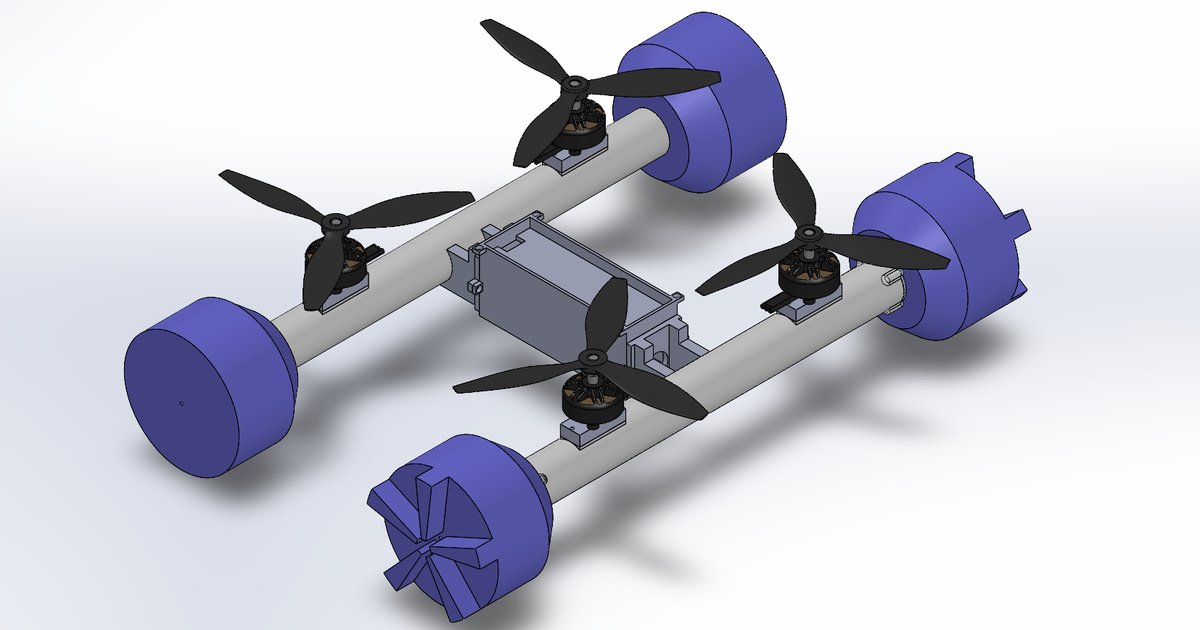
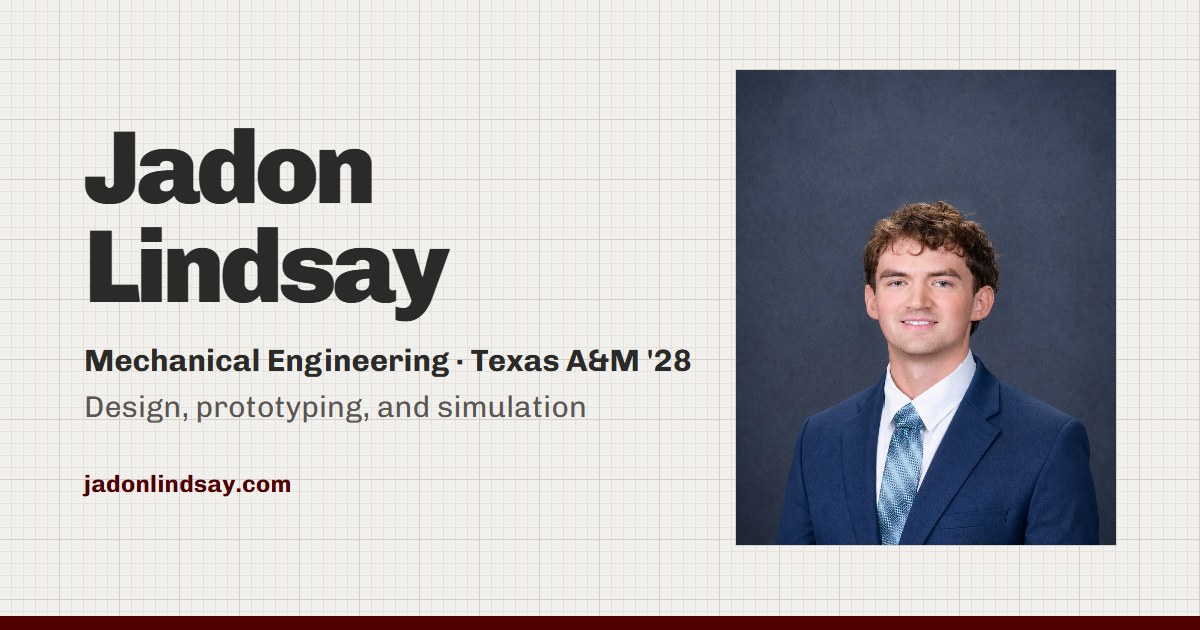
Link previews in the site's style, one per page
A home card with name, role and headshot, and a card per project page
with its title, key result and line drawing. Title now names Texas A&M.

diff --git a/UPDATING.md b/UPDATING.md
@@ -65,6 +65,7 @@ Open the chart's file in `src/data/` and change the `y` value next to its `x` va
 - **Resume:** replace `public/resume.pdf`, keeping that exact name.
 - **Headshot:** replace `src/assets/projects/home/headshot.jpg`, keeping that exact name.
 - **Email, LinkedIn, headline, GPA:** edit `site.config.json`.
+- **Link previews** (the image LinkedIn shows when you share a link): they're made from the site's own text, headshot and drawings. After changing any of those, ask Claude Code to "remake the share images" (it runs `figures/og.cjs`). Then paste the link into [LinkedIn's Post Inspector](https://www.linkedin.com/post-inspector/) so LinkedIn picks up the new image; it keeps the old one otherwise.
 
 ## 5. Reorder, feature, or hide a project
 
